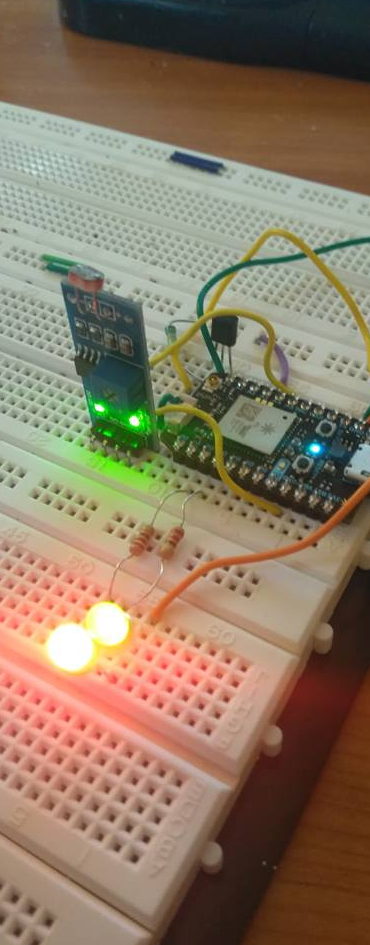
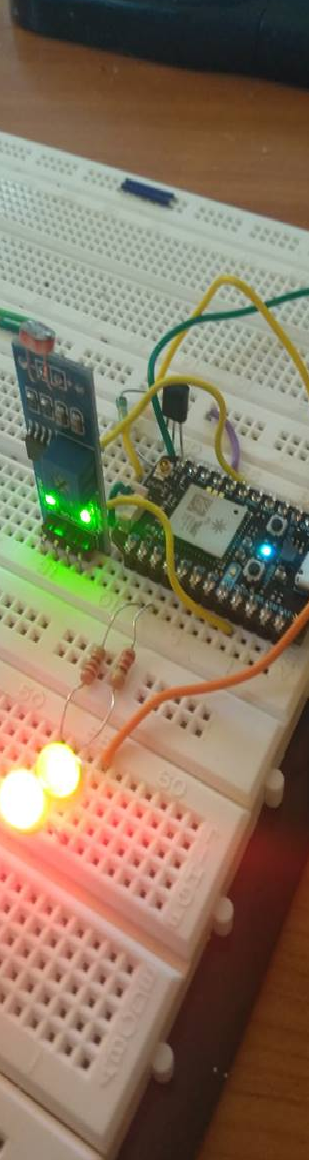
re-sized images

diff --git a/website/phone_styles.css b/website/phone_styles.css
@@ -7,23 +7,23 @@ body {
 #temp-graph{
     position: absolute;
 	height:25%;
-	width:40%;
+	width:45%;
 	top: 128%;
-	left: 30%;
+	left: 28%;
 }
 
 #light-graph{
     position: absolute;
 	height:25%;
-	width:40%;
+	width:45%;
 	top: 23%;
-	left: 30%;
+	left: 28%;
 }
 
 #light-status{
     position: absolute;
 	width: 38%;
-	height: 38%;
+	height: 42%;
 	top: 73%;
 	left: 30%;
 	background-size: cover;
@@ -33,7 +33,7 @@ body {
 #temp-status{
     position: absolute;
 	width: 38%;
-	height: 38%;
+	height: 42%;
 	top: 178%;
 	left: 30%;
 	background-size: cover;
